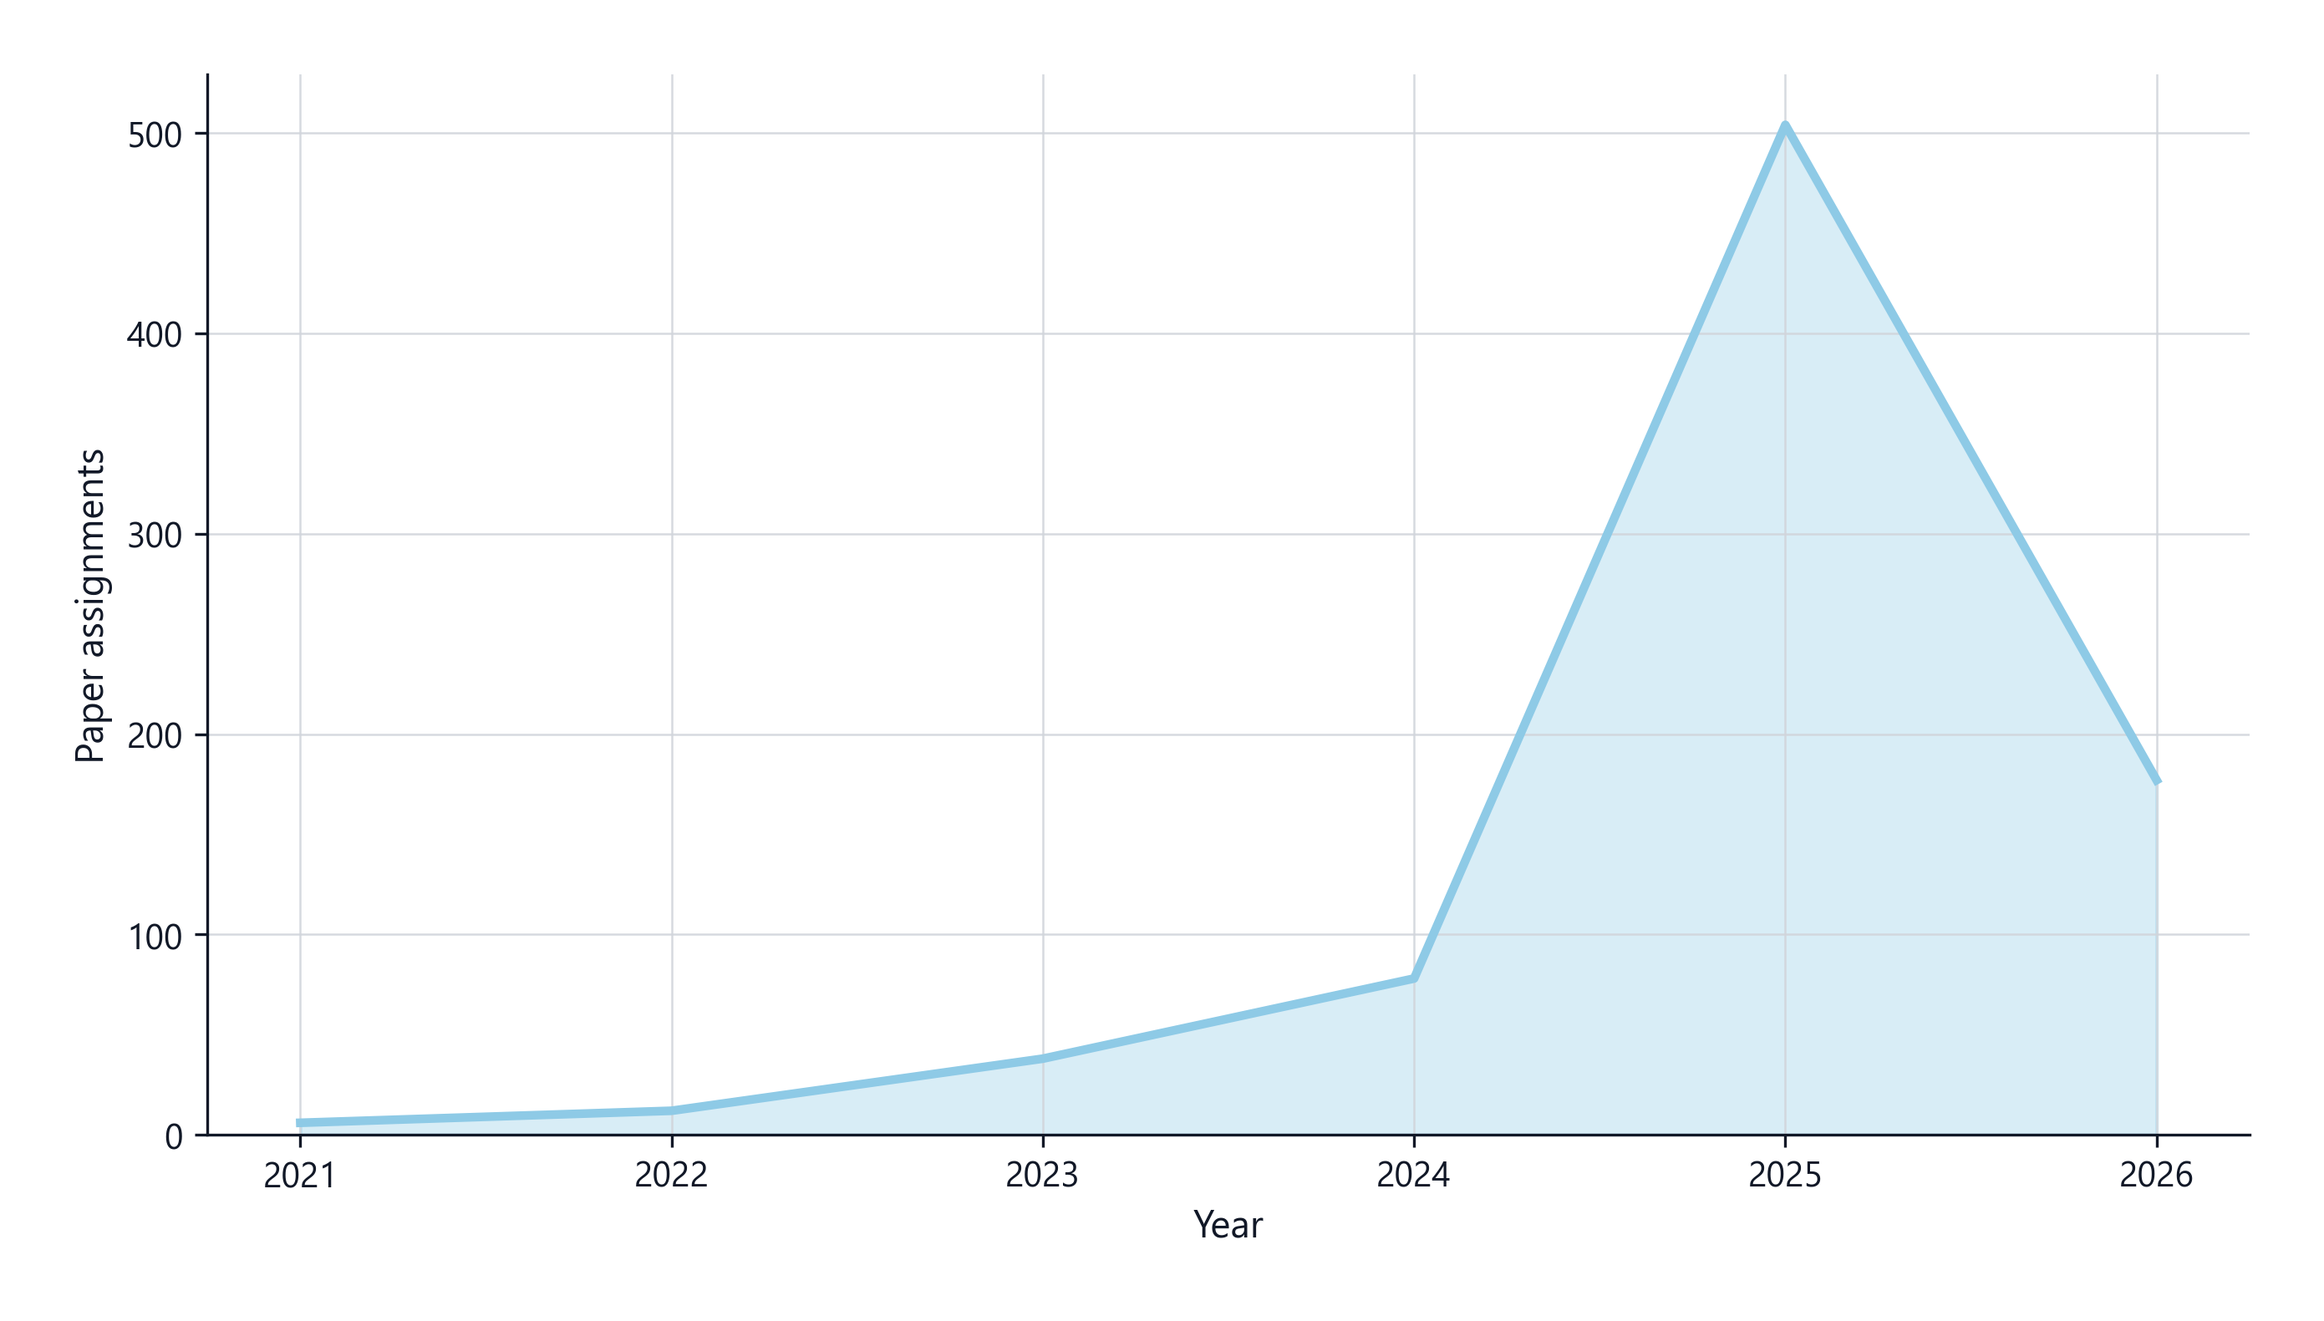
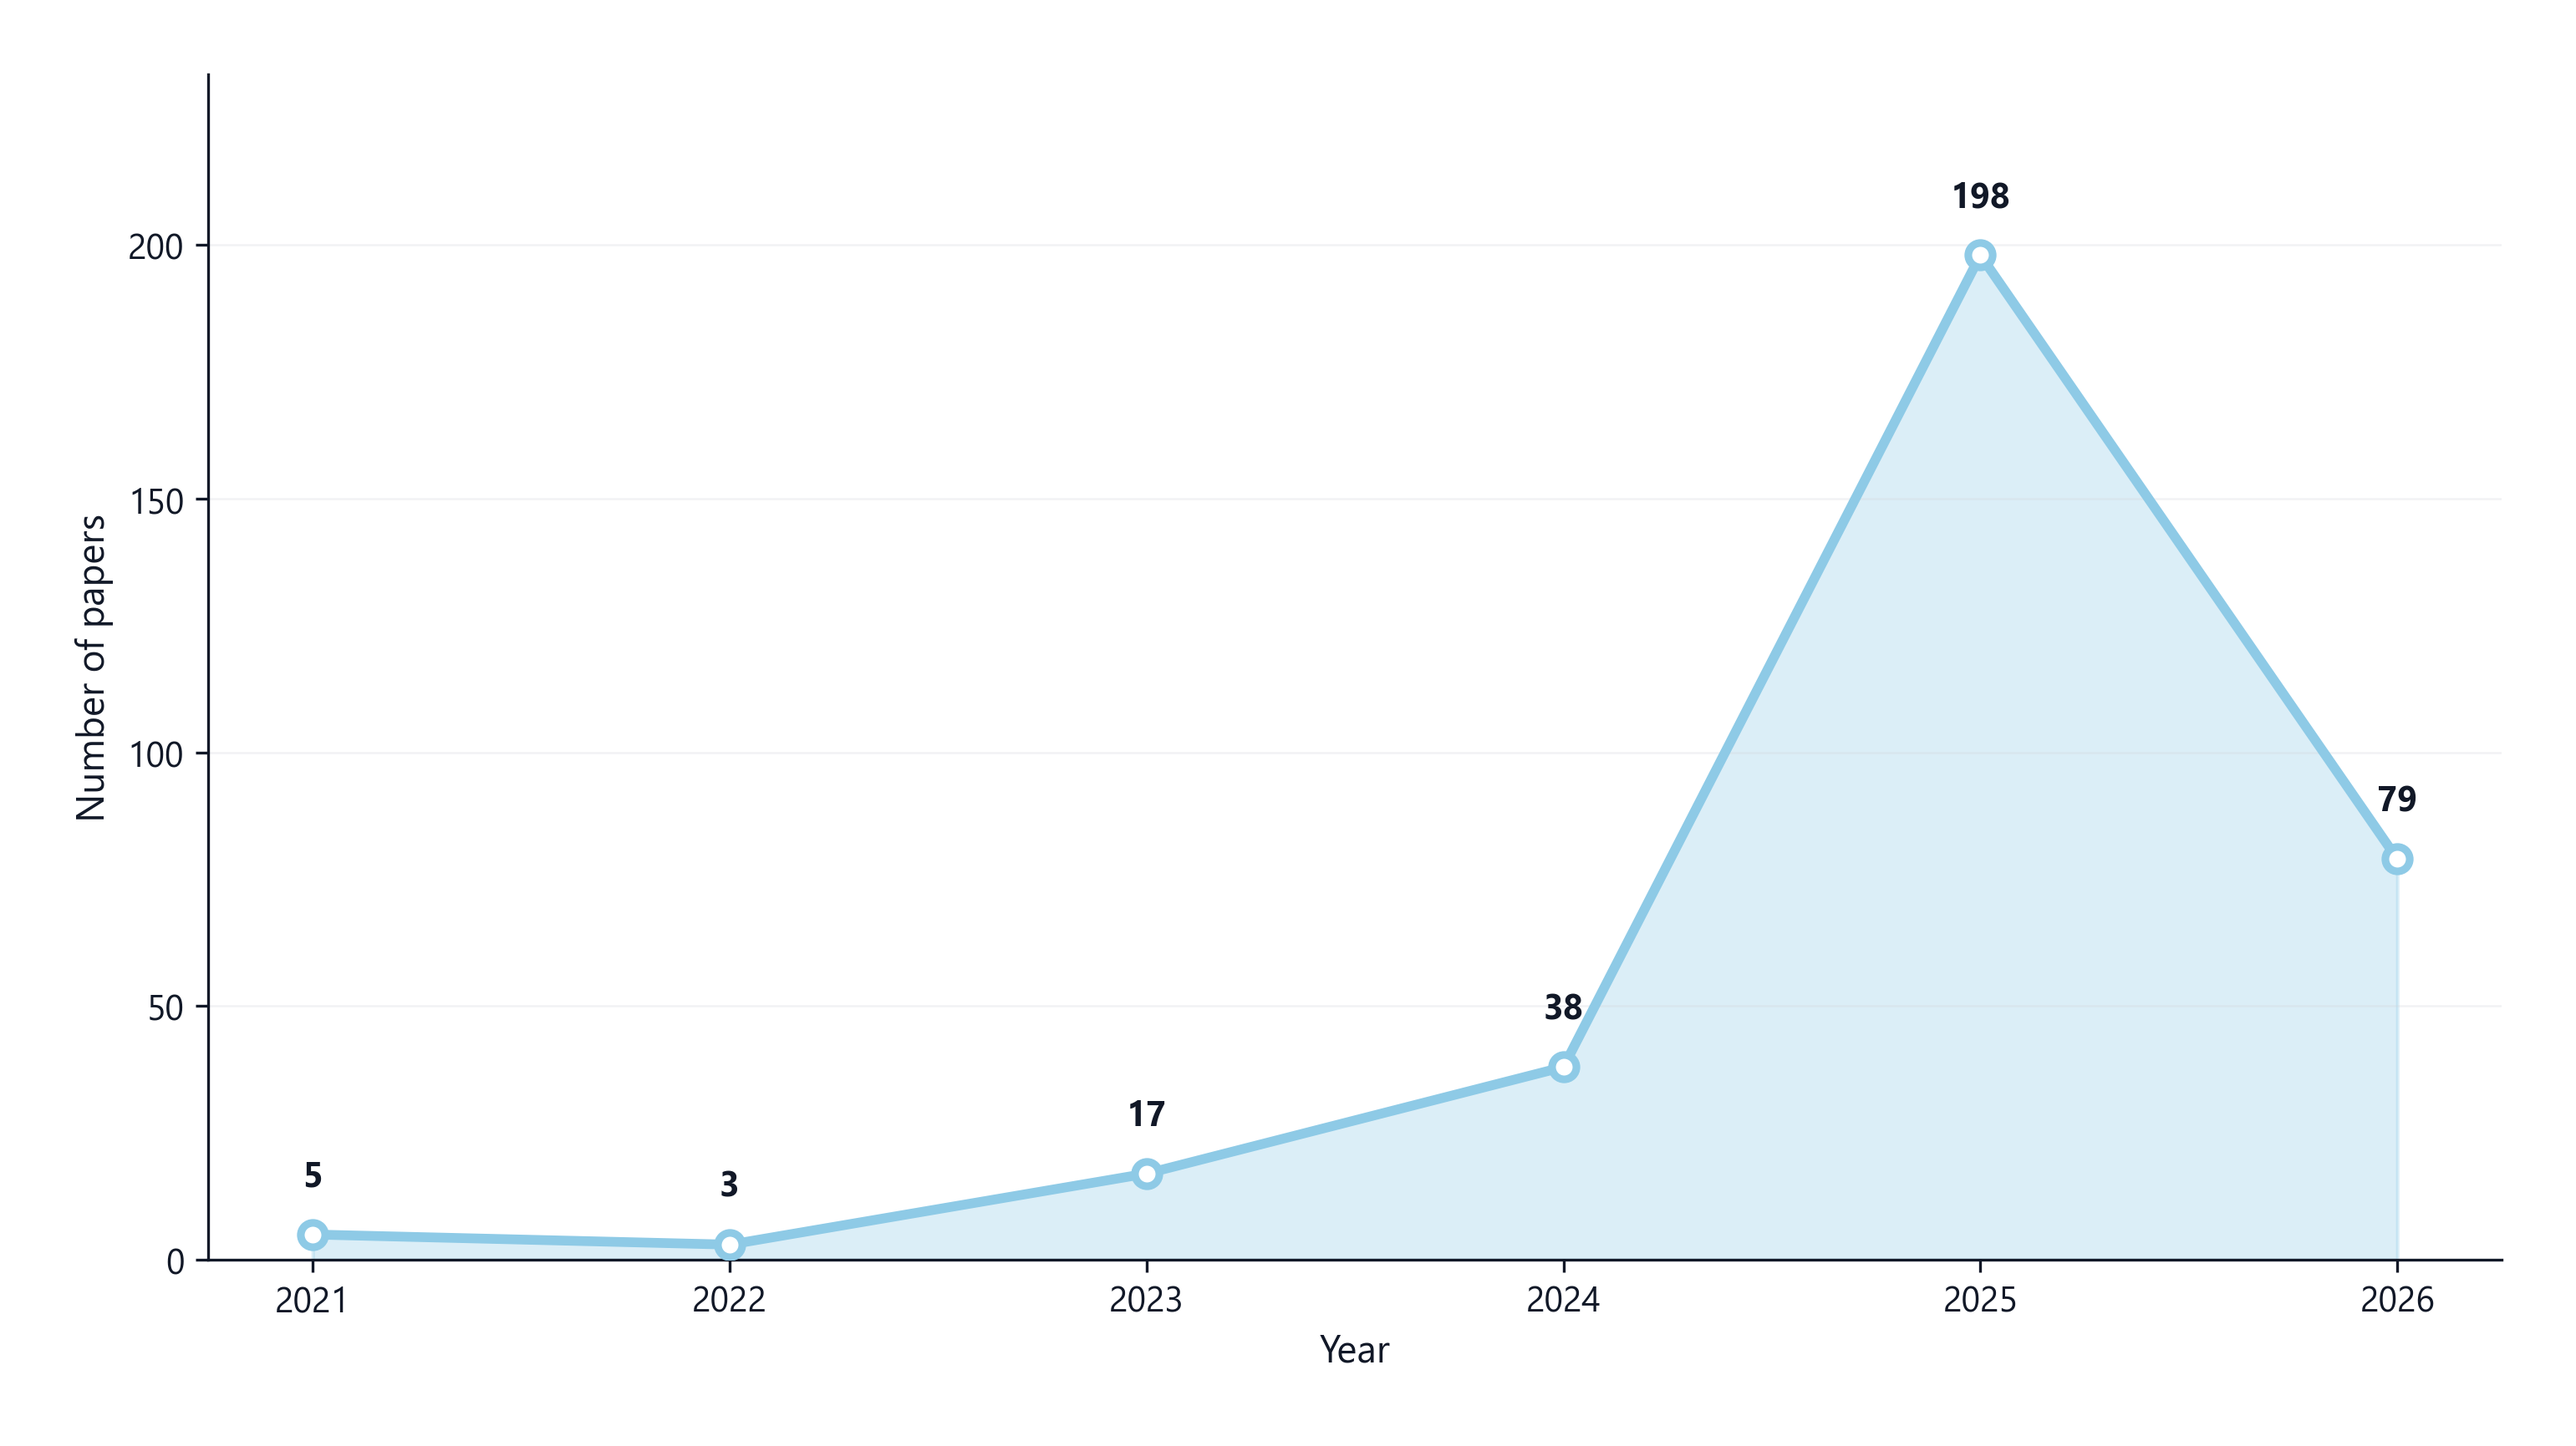
published

diff --git a/plot_figures.py b/plot_figures.py
@@ -731,15 +731,34 @@ def fig9_thematic_radar(rel: pd.DataFrame):
 # Figures 10–23 — Dashboard parity (insights tab + triangle)
 # ═══════════════════════════════════════════════════════════════════════
 def fig10_publication_cadence(rel: pd.DataFrame):
-    yearly = rel.dropna(subset=["year"]).groupby("year").size().sort_index()
+    papers = rel.drop_duplicates(subset=["title"]).copy()
+    yearly = papers.dropna(subset=["year"]).groupby("year").size().sort_index()
 
-    fig, ax = plt.subplots(figsize=(9, 5), facecolor=BG_TRANSPARENT)
-    ax.fill_between(yearly.index, yearly.values, color=CADENCE_COLOR, alpha=0.35)
-    ax.plot(yearly.index, yearly.values, color=CADENCE_COLOR, linewidth=2.5, zorder=3)
+    fig, ax = plt.subplots(figsize=(10, 5.5), facecolor=BG_TRANSPARENT)
+
+    # Gradient-style fill with layered alphas for depth
+    ax.fill_between(yearly.index, yearly.values, color=CADENCE_COLOR, alpha=0.15, zorder=1)
+    ax.fill_between(yearly.index, yearly.values, color=CADENCE_COLOR, alpha=0.20,
+                    step=None, zorder=1)
+
+    # Main line with markers
+    ax.plot(yearly.index, yearly.values, color=CADENCE_COLOR, linewidth=2.8,
+            marker="o", markersize=7, markerfacecolor="white",
+            markeredgecolor=CADENCE_COLOR, markeredgewidth=2.2, zorder=4)
+
+    # Data labels above each point
+    for x, y in zip(yearly.index, yearly.values):
+        ax.text(x, y + yearly.max() * 0.04, str(int(y)),
+                ha="center", va="bottom", fontsize=10, fontweight="bold",
+                color=TEXT_MAIN, zorder=5)
+
     ax.set_xlabel("Year")
-    ax.set_ylabel("Paper assignments")
+    ax.set_ylabel("Number of papers")
     ax.xaxis.set_major_locator(mticker.MaxNLocator(integer=True))
-    ax.set_ylim(0)
+    ax.set_ylim(0, yearly.max() * 1.18)
+    ax.grid(axis="y", alpha=0.3)
+    ax.grid(axis="x", visible=False)
+
     fig.tight_layout()
     save(fig, "fig10_publication_cadence")
 
